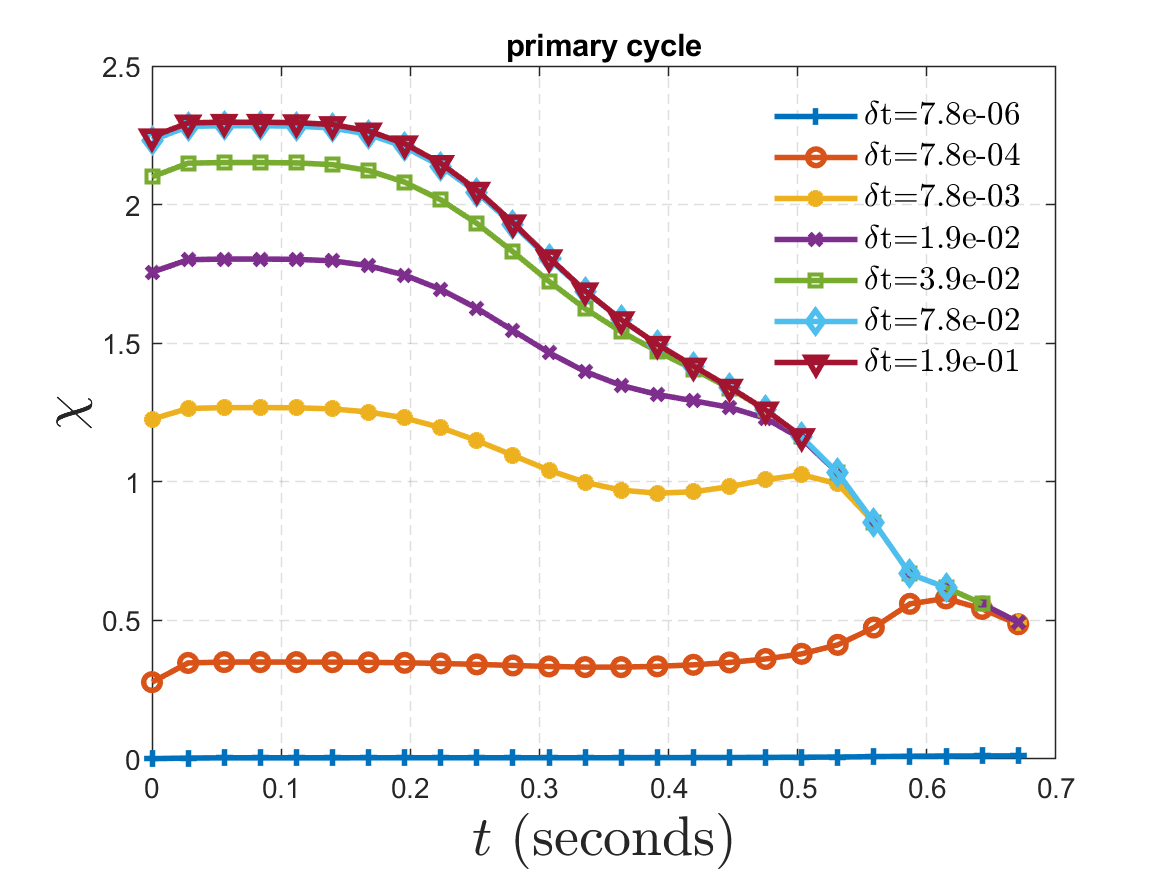
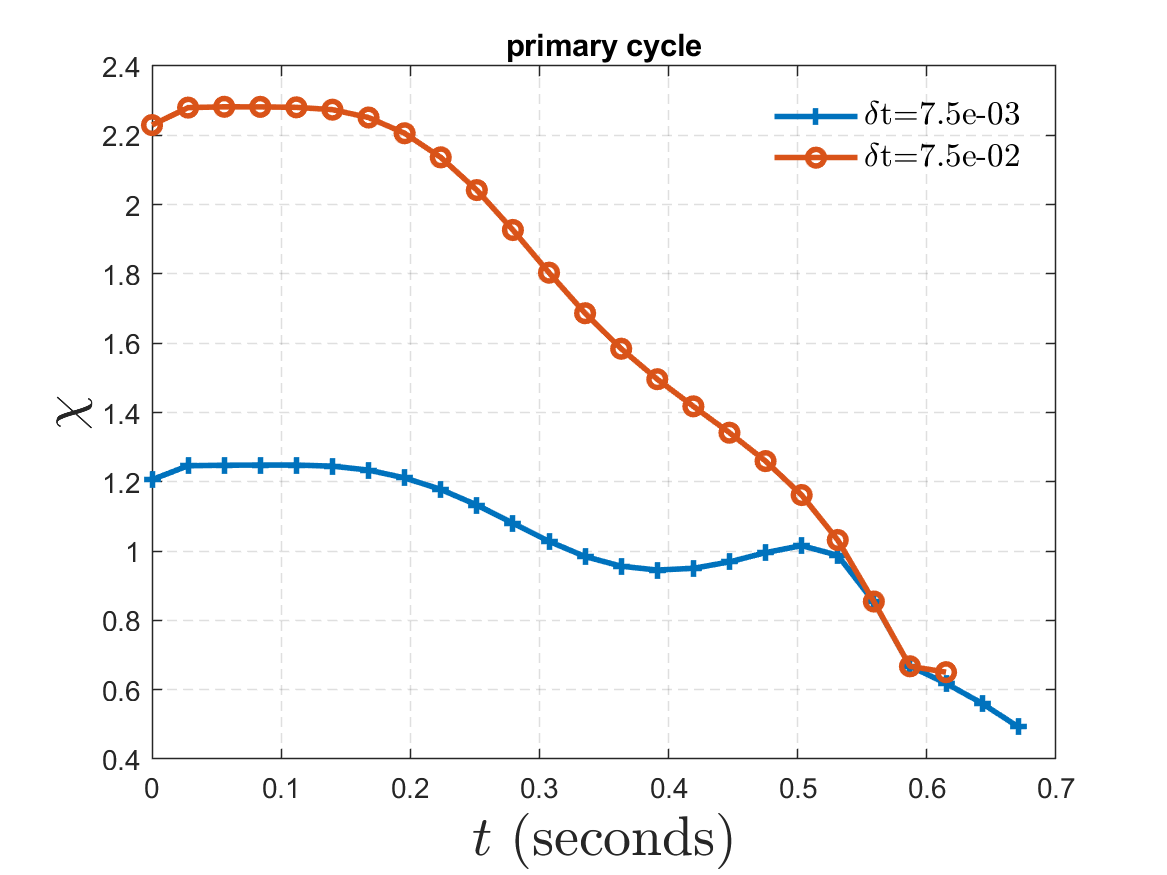
minor

diff --git a/theory/misc/Merchant_f/2d_f/npropyl/delta_t_dependence_v3/merchant_alpha_beta.m b/theory/misc/Merchant_f/2d_f/npropyl/delta_t_dependence_v3/merchant_alpha_beta.m
@@ -1,0 +1,177 @@
+%% global settings
+
+%% Current file directory
+file_dir = fullfile(fileparts(mfilename('fullpath')), '..', '..', '..', '..', '..', '..', '..', '..', '..', 'SOHR_DATA');
+pic_dir = fullfile(fileparts(mfilename('fullpath')));
+
+%% import time
+fn_time = fullfile(file_dir, 'output', 'time_dlsode_M.csv');
+delimiter = '';
+formatSpec = '%f%[^\n\r]';
+%% Open the text file.
+fileID = fopen(fn_time,'r');
+dataArray = textscan(fileID, formatSpec, 'Delimiter', delimiter, 'EmptyValue' ,NaN, 'ReturnOnError', false);
+
+%% Close the text file.
+fclose(fileID);
+time_vec = dataArray{:, 1};
+%% Clear temporary variables
+clearvars fn_time delimiter formatSpec fileID dataArray ans;
+
+%% import temperature
+fn_temp = fullfile(file_dir, 'output', 'temperature_dlsode_M.csv');
+delimiter = '';
+formatSpec = '%f%[^\n\r]';
+%% Open the text file.
+fileID = fopen(fn_temp,'r');
+%% Read columns of data according to format string.
+dataArray = textscan(fileID, formatSpec, 'Delimiter', delimiter, 'EmptyValue' ,NaN, 'ReturnOnError', false);
+%% Close the text file.
+fclose(fileID);
+%% Allocate imported array to column variable names
+temp_vec = dataArray{:, 1};
+%% Clear temporary variables
+clearvars fn_temp delimiter formatSpec fileID dataArray ans;
+
+%% import time
+fn_R = fullfile(file_dir, 'output', 'reaction_rate_dlsode_M.csv');
+delimiter = ',';
+% For more information, see the TEXTSCAN documentation.
+formatSpec = '%f%f%f%f%f%f%f%f%f%f%f%f%f%f%f%f%f%f%f%f%f%f%f%f%f%f%f%f%f%f%f%f%f%f%f%f%f%f%f%f%f%f%f%f%f%f%f%f%f%f%f%f%f%f%f%f%f%f%f%f%f%f%f%f%f%f%f%f%f%f%f%f%f%f%f%f%f%f%f%f%f%f%f%f%f%f%f%f%f%f%f%f%f%f%f%f%f%f%f%f%f%f%f%f%f%f%f%f%f%f%f%f%f%f%f%f%f%f%f%f%f%f%f%f%f%f%f%f%f%f%f%f%f%f%f%f%f%f%f%f%f%f%f%f%f%f%f%f%f%f%f%f%f%f%f%f%f%f%f%f%f%f%f%f%f%f%f%f%f%f%f%f%f%f%f%f%f%f%f%f%f%f%f%f%f%f%f%f%f%f%f%f%f%f%f%f%f%f%f%f%f%f%f%f%f%f%f%f%f%f%f%f%f%f%f%f%f%f%f%f%f%f%f%f%f%f%f%f%f%f%f%f%f%f%f%f%f%f%f%f%f%f%f%f%f%f%f%f%f%f%f%f%f%f%f%f%f%f%f%f%f%f%f%f%f%f%f%f%f%f%f%f%f%f%f%f%f%f%f%f%f%f%f%f%f%f%f%f%f%f%f%f%f%f%f%f%f%f%f%f%f%f%f%f%f%f%f%f%f%f%f%f%f%f%f%f%f%f%f%f%f%f%f%f%f%f%f%f%f%f%f%f%f%f%f%f%f%f%f%f%f%f%f%f%f%f%f%f%f%f%f%f%f%f%f%f%f%f%f%f%f%f%f%f%f%f%f%f%f%f%f%f%f%f%f%f%f%f%f%f%f%f%f%f%f%f%f%f%f%f%f%f%f%f%f%f%f%f%f%f%f%f%f%f%f%f%f%f%f%f%f%f%f%f%f%f%f%f%f%f%f%f%f%f%f%f%f%f%f%f%f%f%f%f%f%f%f%f%f%f%f%f%f%f%f%f%f%f%f%f%f%f%f%f%f%f%f%f%f%f%f%f%f%f%f%f%f%f%f%f%f%f%f%f%f%f%f%f%f%f%f%f%f%f%f%f%f%f%f%f%f%f%f%f%f%f%f%f%f%f%f%f%f%f%f%f%f%f%f%f%f%f%f%f%f%f%f%f%f%f%f%f%f%f%f%f%f%f%f%f%f%f%f%f%f%f%f%f%f%f%f%f%f%f%f%f%f%f%f%f%f%f%f%f%f%f%f%f%f%f%f%f%f%f%f%f%f%f%f%f%f%f%f%f%f%f%f%f%f%f%f%f%f%f%f%f%f%f%f%f%f%f%f%f%f%f%f%f%f%f%f%f%f%f%f%f%f%f%f%f%f%f%f%f%f%f%f%f%f%f%f%f%f%f%f%f%f%f%f%f%f%f%f%f%f%f%f%f%f%f%f%f%f%f%f%f%f%f%f%f%f%f%f%f%f%f%f%f%f%f%f%f%f%f%f%f%f%f%f%f%f%f%f%f%f%f%f%f%f%f%f%f%f%f%f%f%f%f%f%f%f%f%f%f%f%f%f%f%f%f%f%f%f%f%f%f%f%f%f%f%f%f%f%f%f%f%f%f%f%f%f%f%f%f%f%f%f%f%f%f%f%f%f%f%f%f%f%f%f%f%f%f%f%f%f%f%f%f%f%f%f%f%f%f%f%f%f%f%f%f%f%f%f%f%f%f%f%f%f%f%f%f%f%f%f%f%f%f%f%f%f%f%f%f%f%f%f%f%f%f%f%f%f%f%f%f%f%f%f%f%f%f%f%f%f%f%f%f%f%f%f%f%f%f%f%f%f%f%f%f%f%f%f%f%f%f%f%f%f%f%f%f%f%f%f%f%f%f%f%f%f%f%f%f%f%f%f%f%f%f%f%f%f%f%f%f%f%f%f%f%f%f%f%f%f%f%f%f%f%f%f%f%f%f%f%f%f%f%f%f%f%f%f%f%f%f%f%f%f%f%f%f%f%f%f%f%f%f%f%f%f%f%f%f%f%f%f%f%f%f%f%f%f%f%f%f%f%f%f%f%f%f%f%f%f%f%f%f%f%f%f%f%f%f%f%f%f%f%f%f%f%f%f%f%f%f%f%f%f%f%f%f%f%f%f%f%f%f%f%f%f%f%f%f%f%f%f%f%f%f%f%f%f%f%f%f%f%f%f%f%f%f%f%f%f%f%f%f%f%f%f%f%f%f%f%f%f%f%f%f%f%f%f%f%f%f%f%f%f%f%f%f%f%f%f%f%f%f%f%f%f%f%f%f%f%f%f%f%f%f%f%f%f%f%f%f%f%f%f%f%f%f%f%f%f%f%f%f%f%f%f%f%f%f%f%f%f%f%f%f%f%f%f%f%f%f%f%f%f%f%f%f%f%f%f%f%f%f%f%f%f%f%f%f%f%f%f%f%f%f%f%f%f%f%f%f%f%f%f%f%f%f%f%f%f%f%f%f%f%f%f%f%f%f%f%f%f%f%f%f%f%f%f%f%f%f%f%f%f%f%f%f%f%f%f%f%f%f%f%f%f%f%f%f%f%f%f%f%f%f%f%f%f%f%f%f%f%f%f%f%f%f%f%f%f%f%f%f%f%f%f%f%f%f%f%f%f%f%f%f%f%f%f%f%f%f%f%f%f%f%f%f%f%f%f%f%f%f%f%f%f%f%f%f%f%f%f%f%f%f%f%f%f%f%f%f%f%f%f%f%f%f%f%f%f%f%f%f%f%f%[^\n\r]';
+
+%% Open the text file.
+fileID = fopen(fn_R,'r');
+dataArray = textscan(fileID, formatSpec, 'Delimiter', delimiter, 'EmptyValue' ,NaN, 'ReturnOnError', false);
+%% Close the text file.
+fclose(fileID);
+%% Create output variable
+reaction_R_mat = [dataArray{1:end-1}];
+%% Clear temporary variables
+clearvars fn_R delimiter formatSpec fileID dataArray ans;
+
+%% plot
+fig = figure();
+% https://www.mathworks.com/help/matlab/graphics_transition/why-are-plot-lines-different-colors.html
+% https://www.mathworks.com/help/matlab/creating_plots/customize-graph-with-two-y-axes.html
+co = [    0    0.4470    0.7410 % 1th plot
+    0.8500    0.3250    0.0980 % 2nd plot
+%     0.9290    0.6940    0.1250 % 3rd plot
+%     0.4940    0.1840    0.5560 % 4th plot
+%     0.4660    0.6740    0.1880 % 5th plot
+%     0.3010    0.7450    0.9330 % 6th plot
+%     0.6350    0.0780    0.1840 % 7th plot
+%     0   0   1 % placeholder
+%     0   0.5   0 % placeholder
+%     0   0.75   0.75 % placeholder
+%     0.7500         0    0.7500 % placeholder
+%     0.7500    0.7500         0 % placeholder
+%     0.2500    0.2500    0.2500 % placeholder
+    1   0   0 % bl
+    ]; 
+set(fig,'defaultAxesColorOrder',co)
+%%
+tau = 0.777660157519;
+end_t = 0.9;
+
+% data preparation alpha
+R_idx_sink1 = [1, 3, 4, 7, 21, 22, 29, 31, 32, 37, 39, 43, 44, 51, 52, 61, 62, 67, 79, 89, 90, 104, 111, 121, 122, 149, 152, 155, 161, 163, 164, 179, 183, 185, 186, 198, 209, 210, 212, 228, 236, 241, 243, 262, 267, 282, 290, 311, 312, 339, 361, 367, 369, 373, 377, 379, 383, 388, 411, 412, 424, 431, 447, 453, 461, 462, 464, 466, 471, 482, 501, 514, 517, 522, 524, 526, 533, 542, 544, 546, 567, 569, 571, 582, 589, 594, 599, 623, 628, 653, 654, 680, 685, 715, 717, 733, 735, 736, 738, 786, 815, 817, 819, 853, 862, 867, 884, 889, 898, 903, 907, 909, 1002, 1007, 1014, 1016, 1018, 1020, 1022, 1024, 1026, 1028, 1035, 1039, 1077, 1085, 1091, 1095, 1103, 1109, 1113, 1115, 1119, 1123, 1131, 1133, 1135, 1151, 1153, 1155, 1163, 1167, 1173, 1175, 1177, 1187, 1189, 1191, 1199, 1201, 1203, 1211, 1213, 1215, 1217, 1219, 1221];
+for idx=1:length(R_idx_sink1)
+    r_idx = R_idx_sink1(idx) + 1;
+    if idx == 1
+        R_total1 = reaction_R_mat(:, r_idx);
+    else
+        R_total1 = (R_total1 + reaction_R_mat(:, r_idx));
+    end
+end
+% R_idx_source1 = [0, 2, 5, 6, 20, 23, 28, 30, 33, 36, 38, 42, 45, 50, 53, 60, 63, 66, 78, 88, 91, 105, 110, 120, 123, 148, 153, 154, 160, 162, 165, 178, 182, 184, 187, 199, 208, 211, 213, 229, 237, 240, 242, 263, 266, 283, 291, 310, 313, 338, 360, 366, 368, 372, 376, 378, 382, 389, 410, 413, 425, 430, 446, 452, 460, 463, 465, 467, 470, 483, 500, 515, 516, 523, 525, 527, 532, 543, 545, 547, 566, 568, 570, 583, 588, 595, 598, 622, 629, 652, 655, 681, 684, 714, 716, 732, 734, 737, 739, 787, 814, 816, 818, 852, 863, 866, 885, 888, 899, 902, 906, 908, 1003, 1006, 1015, 1017, 1019, 1021, 1023, 1025, 1027, 1029, 1034, 1038, 1076, 1084, 1090, 1094, 1102, 1108, 1112, 1114, 1118, 1122, 1130, 1132, 1134, 1150, 1152, 1154, 1162, 1166, 1172, 1174, 1176, 1186, 1188, 1190, 1198, 1200, 1202, 1210, 1212, 1214, 1216, 1218, 1220];
+% for idx=1:length(R_idx_source1)
+%     r_idx = R_idx_source1(idx) + 1;
+%     R_total1 = (R_total1 - reaction_R_mat(:, r_idx));
+% end
+
+r_sink1 = [736];
+for idx=1:length(r_sink1)
+    r_idx = r_sink1(idx)+1;
+    if idx==1
+        data_y1 = reaction_R_mat(:, r_idx);
+    else
+        data_y1 = (data_y1 + reaction_R_mat(:, r_idx));
+    end
+end
+r_source1 = [737];
+for idx=1:length(r_source1)
+    r_idx = r_source1(idx)+1;
+    data_y1 = (data_y1 - reaction_R_mat(:,  r_idx));
+end
+
+h1 = plot(time_vec, data_y1 ./ (R_total1), ...
+    'LineWidth', 2); hold on;
+
+% data preparation alpha
+R_idx_sink2 = [706, 710, 856, 914, 916, 922, 926, 930, 934, 938, 942, 946, 952, 956, 960, 964, 968, 970, 982, 984, 986, 988, 990, 1069, 1078, 1080, 1082, 1084];
+%% chattering reactions
+% chattering_R_idx = [1068, 1069];
+chattering_R_idx = [];
+R_idx_sink2 = setdiff(R_idx_sink2, chattering_R_idx);
+for idx=1:length(R_idx_sink2)
+    r_idx = R_idx_sink2(idx) + 1;
+    if idx == 1
+        R_total2 = reaction_R_mat(:, r_idx);
+    else
+        R_total2 = (R_total2 + reaction_R_mat(:, r_idx));
+    end
+end
+% R_idx_source2 = [707, 711, 857, 915, 917, 923, 927, 931, 935, 939, 943, 947, 953, 957, 961, 965, 969, 971, 983, 985, 987, 989, 991, 1068, 1079, 1081, 1083, 1085];
+% R_idx_source2 = setdiff(R_idx_source2, chattering_R_idx);
+% for idx=1:length(R_idx_source2)
+%     r_idx = R_idx_source2(idx) + 1;
+%     R_total2 = (R_total2 - reaction_R_mat(:, r_idx));
+% end
+
+% r_sink2 = [1080, 1078];
+r_sink2 = [1080];
+for idx=1:length(r_sink2)
+    r_idx = r_sink2(idx)+1;
+    if idx==1
+        data_y2 = reaction_R_mat(:, r_idx);
+    else
+        data_y2 = (data_y2 + reaction_R_mat(:, r_idx));
+    end
+end
+% r_source2 = [1081, 1079];
+r_source2 = [1081];
+for idx=1:length(r_source2)
+    r_idx = r_source2(idx)+1;
+    data_y2 = (data_y2 - reaction_R_mat(:,  r_idx));
+end
+
+data_plot2 = data_y2 ./ (R_total2);
+h2 = plot(time_vec, data_plot2, ...
+    'LineWidth', 2); hold on;
+
+%% settings
+set(gca,'GridLineStyle','--');
+xlabel('$t$ (seconds)', 'FontSize', 20, 'Interpreter', 'Latex');
+ylabel('Fraction', 'FontSize', 20);
+% ylim([10^-3.5, 10^0]);
+
+%% temp
+yyaxis right
+delta_n = 1000;
+plot(time_vec, temp_vec, 'LineWidth', 2, 'color', 'r'); hold on;
+pt = scatter(time_vec(1:delta_n:end), temp_vec(1:delta_n:end), 'MarkerEdgeColor', 'r');
+ylabel('T (K)', 'FontSize', 20);
+% set(gca, 'ytick', []);
+
+%% global settings
+grid on;
+xlim([0, tau*end_t]);
+
+leg_h = legend('\alpha', '\beta');
+set(leg_h, 'FontSize', 12, 'Box', 'off');
+set(leg_h, 'Location', 'South')
+
+
+%% save to file
+figname = strcat('merchant_alpha_beta', '.png');
+print(fig, fullfile(pic_dir, figname), '-r200', '-dpng');

diff --git a/theory/misc/Merchant_f/2d_f/npropyl/delta_t_dependence_v3/two_dim_Merchant_f_v4_delta_t.m b/theory/misc/Merchant_f/2d_f/npropyl/delta_t_dependence_v3/two_dim_Merchant_f_v4_delta_t.m
@@ -26,22 +26,22 @@ end_t = '0.9';
 % title_p = ['\color{red} O_2QOOH_1\color{black}\rightarrow(OH+)\color{red}OQ^{\prime}OOH_1', ... 
 %     '\color{black}\rightarrow(\color{blue}OH\color{black}+)\color{red}OQ^{\prime}O_1'];
 
-cycle = 'p3';
-path_idx = [3];
-delta_t_vec = [1.2859087486111409e-06, 0.001285908748611141, 0.01285908748611141, 0.03214771871527852, 0.06429543743055705, 0.09644315614583557];
-y_label_str = '\chi_3';
-title_p = ['\color{red} O_2QOOH_1\color{black}\rightarrow(OH+)\color{red}OQ^{\prime}OOH_1', ...
-    '\color{black}\rightarrow(OH+)\color{red}OQ^{\prime}O_1' char(10), ...
-    '\color{black}\rightarrow(CH_2O+)\color{red}vinoxy\color{black}', ...
-    '', '[+O_2]\rightarrowCH_2O+CO+\color{blue}OH'];
+% cycle = 'p3';
+% path_idx = [3];
+% delta_t_vec = [1.2859087486111409e-06, 0.001285908748611141, 0.01285908748611141, 0.03214771871527852, 0.06429543743055705, 0.09644315614583557];
+% y_label_str = '\chi_3';
+% title_p = ['\color{red} O_2QOOH_1\color{black}\rightarrow(OH+)\color{red}OQ^{\prime}OOH_1', ...
+%     '\color{black}\rightarrow(OH+)\color{red}OQ^{\prime}O_1' char(10), ...
+%     '\color{black}\rightarrow(CH_2O+)\color{red}vinoxy\color{black}', ...
+%     '', '[+O_2]\rightarrowCH_2O+CO+\color{blue}OH'];
 
 
-% cycle = 'primary_cycle';
-% path_idx = [1, 2, 3];
-% % delta_t_vec = [1e-5, 5e-5, 1e-4, 5e-4, 1e-3, 2.5e-3, 5e-3, 1e-2, 1.5e-2, 2.5e-2, 5e-2, 1e-1, 2.5e-1, 5e-1];
+cycle = 'primary_cycle';
+path_idx = [1, 2, 3];
+delta_t_vec = [0.009644315614583557, 0.09644315614583557];
 % delta_t_vec = [1e-5, 1e-3, 1e-2, 2.5e-2, 5e-2, 1e-1, 2.5e-1];
-% y_label_str = '\chi';
-% title_p = ['primary cycle'];
+y_label_str = '\chi';
+title_p = ['primary cycle'];
 
 % cycle = 'others';
 

diff --git a/parse_spe_reaction_info.py b/parse_spe_reaction_info.py
@@ -297,7 +297,8 @@ if __name__ == '__main__':
     print(DATA_DIR)
 
     # parse_reaction_net_product(DATA_DIR)
-    # net_source_reaction_of_species(DATA_DIR, 10)
+    net_sink_reaction_of_species(DATA_DIR, 10)
+    net_source_reaction_of_species(DATA_DIR, 10)
     # net_source_reaction_of_species(DATA_DIR, 12)
     # net_source_reaction_of_species(DATA_DIR, 27)
     # net_source_reaction_of_species(DATA_DIR, 25)
@@ -308,9 +309,10 @@ if __name__ == '__main__':
     # net_sink_reaction_of_species(DATA_DIR, 62)
     # net_sink_reaction_of_species(DATA_DIR, 25)
     # net_sink_reaction_of_species(DATA_DIR, 39)
-    net_sink_reaction_of_species(DATA_DIR, 27)
-    net_sink_reaction_of_species(DATA_DIR, 50)
-    # net_sink_reaction_of_species(DATA_DIR, 78)
+    # net_sink_reaction_of_species(DATA_DIR, 27)
+    # net_sink_reaction_of_species(DATA_DIR, 50)
+    net_sink_reaction_of_species(DATA_DIR, 78)
+    net_source_reaction_of_species(DATA_DIR, 78)
     # net_sink_reaction_of_species(DATA_DIR, 80)
     # net_sink_reaction_of_species(DATA_DIR, 62)
     # net_sink_reaction_of_species(DATA_DIR, 10)

diff --git a/theory/misc/quasi_SSA/species_conc_ratio_k_primary_ratios_SSA.m b/theory/misc/quasi_SSA/species_conc_ratio_k_primary_ratios_SSA.m
@@ -2,6 +2,7 @@ plot_exact_ssa_ratio = true;
 
 %% Current file directory
 file_dir = fullfile(fileparts(mfilename('fullpath')), '..', '..', '..', '..', '..', '..', 'SOHR_DATA');
+pic_dir = fullfile(fileparts(mfilename('fullpath')));
 
 %% import time
 fn_time = fullfile(file_dir, 'output', 'time_dlsode_M.csv');
@@ -166,7 +167,7 @@ set(leg_h, 'Location', 'North')
 
 %% save to file
 figname = strcat('species_conc_ratio_k_primary_ratio_SSA_linear_algebra', '.png');
-print(fig, fullfile(file_dir, 'output', figname), '-r200', '-dpng');
+print(fig, fullfile(pic_dir, figname), '-r200', '-dpng');
 
 
 %% A new figure, for the ratio of exact solution and SSA solution
@@ -219,5 +220,5 @@ if plot_exact_ssa_ratio == true
     
     %% save to file
     figname = strcat('ratio_exact_over_SSA', '.png');
-    print(fig, fullfile(file_dir, 'output', figname), '-r200', '-dpng');
+    print(fig, fullfile(pic_dir, figname), '-r200', '-dpng');
 end

diff --git a/theory/misc/quasi_SSA/species_conc_ratio_k_primary_ratios_v2.m b/theory/misc/quasi_SSA/species_conc_ratio_k_primary_ratios_v2.m
@@ -1,5 +1,6 @@
 %% Current file directory
 file_dir = fullfile(fileparts(mfilename('fullpath')), '..', '..', '..', '..', '..', '..', 'SOHR_DATA');
+pic_dir = fullfile(fileparts(mfilename('fullpath')));
 
 %% import time
 fn_time = fullfile(file_dir, 'output', 'time_dlsode_M.csv');
@@ -178,4 +179,4 @@ set(leg_h, 'Location', 'South')
 
 %% save to file
 figname = strcat('species_conc_ratio_k_primary_ratio_v2', '.png');
-print(fig, fullfile(file_dir, 'output', figname), '-r200', '-dpng');
+print(fig, fullfile(pic_dir, figname), '-r200', '-dpng');

diff --git a/theory/misc/quasi_SSA/species_conc_ratio_k_primary_ratios.m b/theory/misc/quasi_SSA/species_conc_ratio_k_primary_ratios.m
@@ -1,5 +1,6 @@
 %% Current file directory
 file_dir = fullfile(fileparts(mfilename('fullpath')), '..', '..', '..', '..', '..', '..', 'SOHR_DATA');
+pic_dir = fullfile(fileparts(mfilename('fullpath')));
 
 %% import time
 fn_time = fullfile(file_dir, 'output', 'time_dlsode_M.csv');
@@ -122,4 +123,4 @@ set(leg_h, 'Location', 'South')
 
 %% save to file
 figname = strcat('species_conc_ratio_k_primary_ratio', '.png');
-print(fig, fullfile(file_dir, 'output', figname), '-r200', '-dpng');
+print(fig, fullfile(pic_dir, figname), '-r200', '-dpng');
